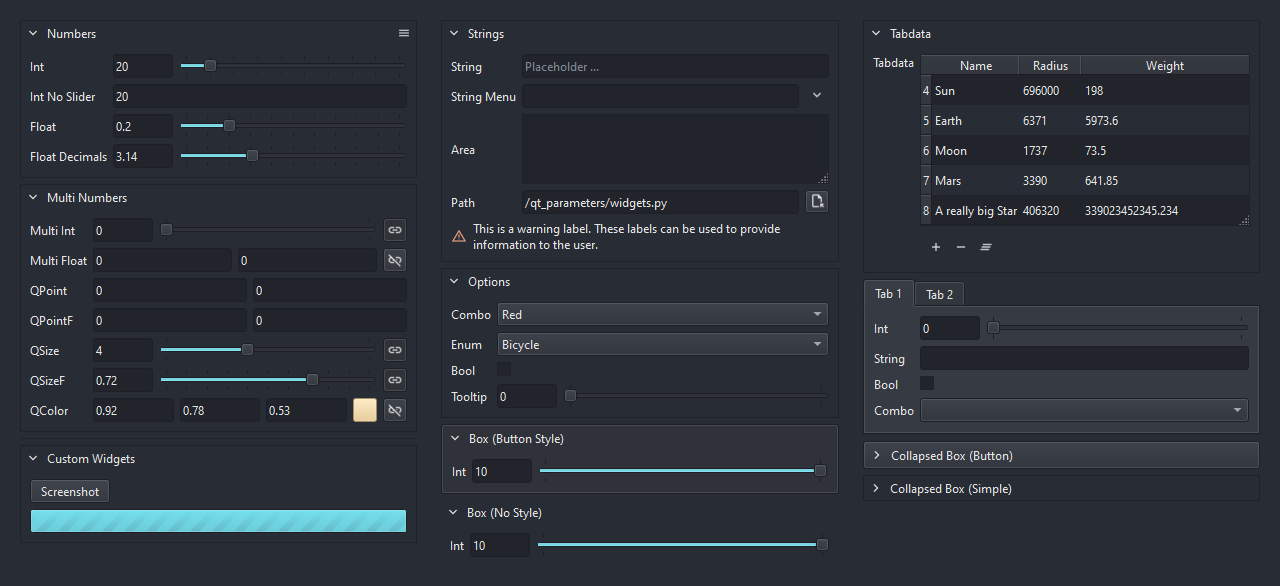
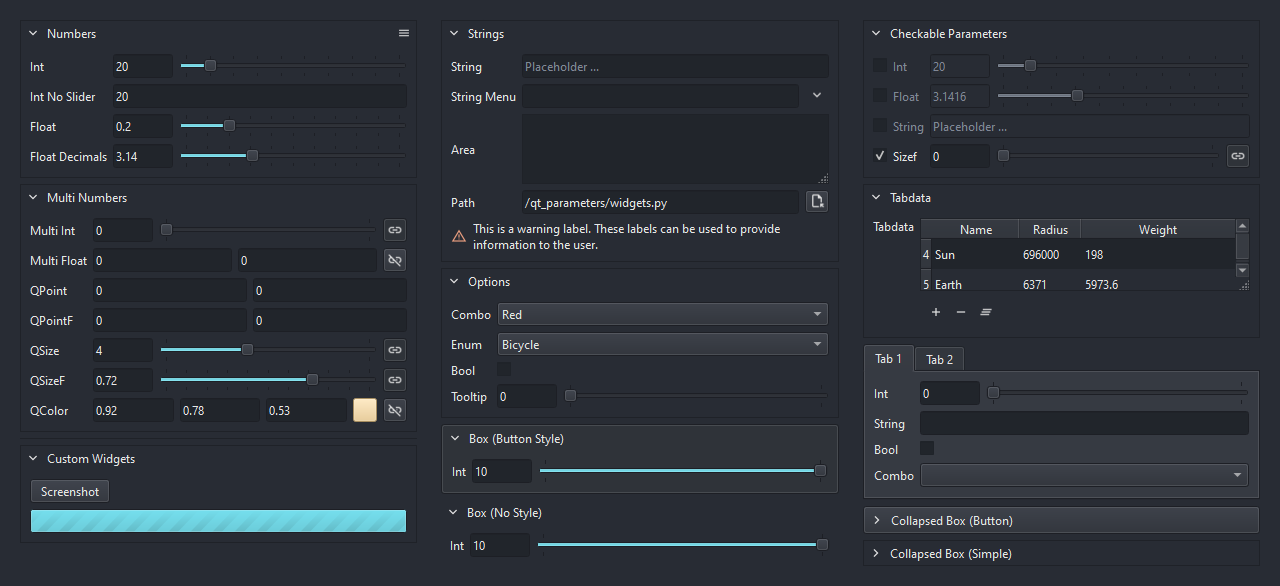
docs: update examples

diff --git a/tests/widgets.py b/tests/widgets.py
@@ -215,6 +215,29 @@ class WidgetGallery(QtWidgets.QWidget):
         layout.addWidget(parameter_form)
         self.forms.append(parameter_form)
 
+        # Checkable
+        box = parameter_form.add_group('Checkable Parameters')
+        form = box.form
+
+        parm = IntParameter('int')
+        parm.set_slider_min(10)
+        parm.set_slider_max(100)
+        parm.set_default(20)
+        form.add_parameter(parm, checkable=True)
+
+        parm = FloatParameter('float')
+        parm.set_slider_max(10)
+        parm.set_default(3.14159265359)
+        form.add_parameter(parm, checkable=True)
+
+        parm = StringParameter('string')
+        parm.set_placeholder('Placeholder ...')
+        form.add_parameter(parm, checkable=True)
+
+        parm = SizeParameter('sizef')
+        form.add_parameter(parm, checkable=True)
+        form.widgets()['sizef_enabled'].set_value(True)
+
         # TabData
         box = parameter_form.add_group('tabdata')
         form = box.form
@@ -255,6 +278,7 @@ class WidgetGallery(QtWidgets.QWidget):
 
 
 def main() -> None:
+    logging.basicConfig(level=logging.DEBUG, force=True)
     with application():
         widget = WidgetGallery()
         widget.show()
